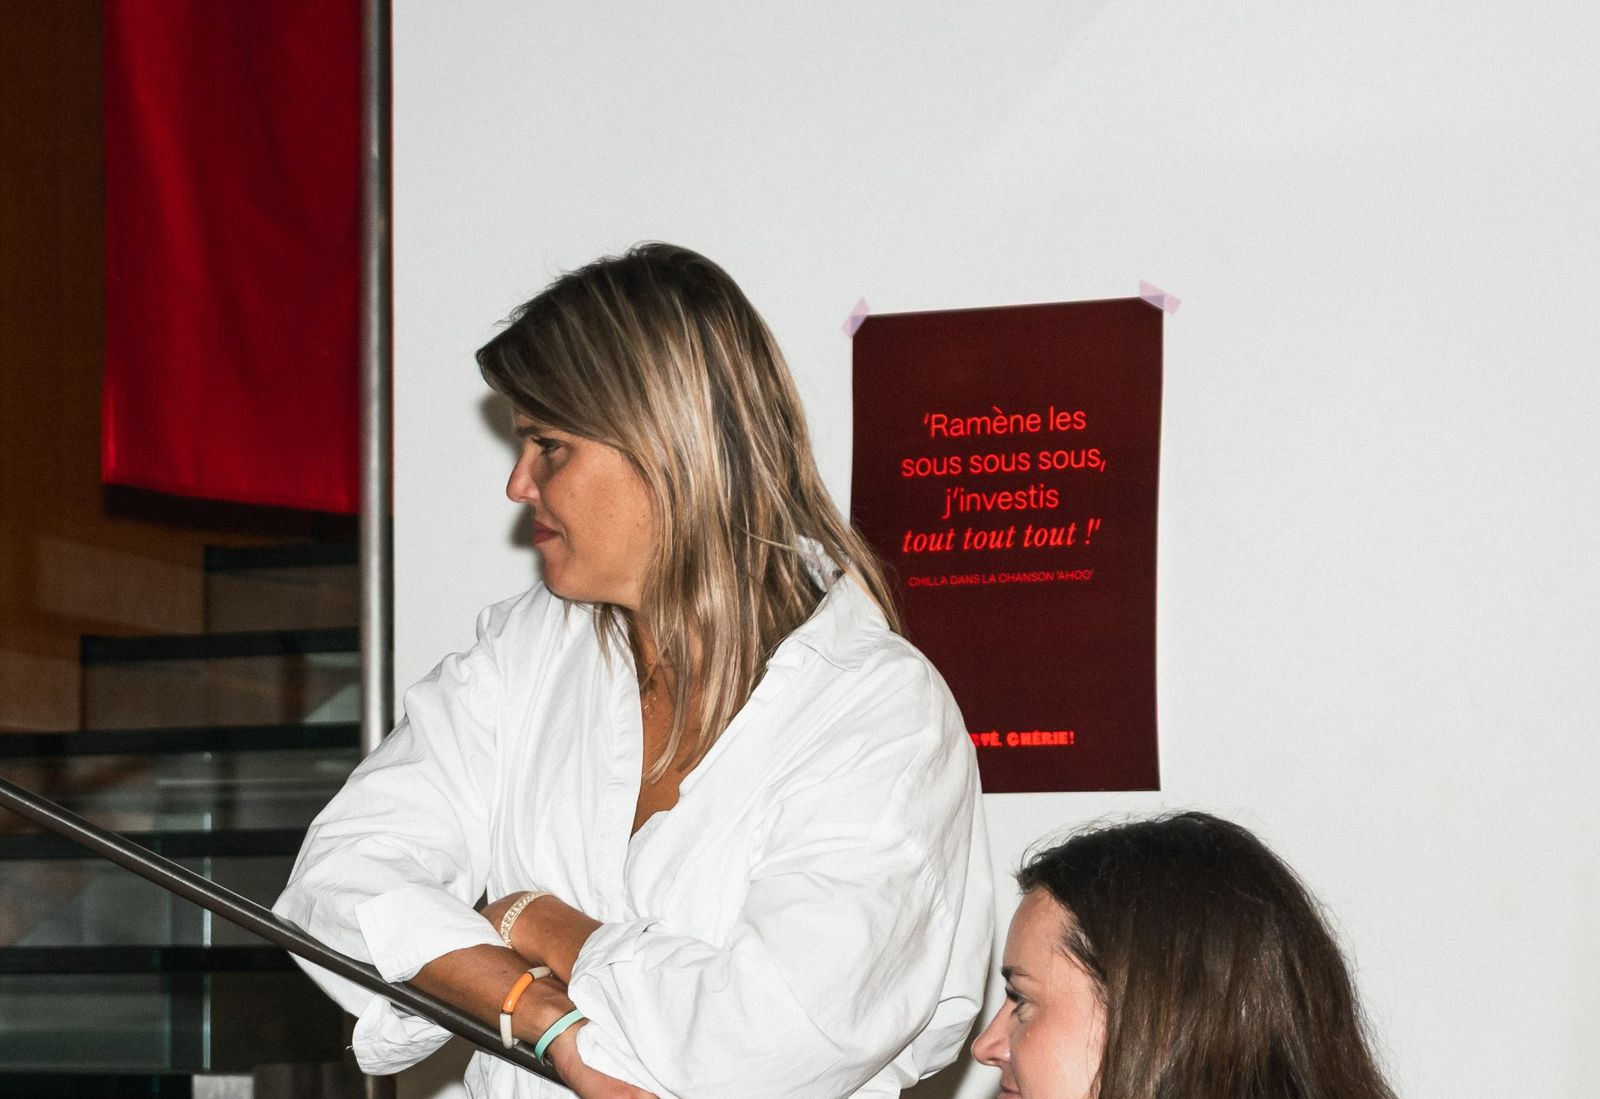
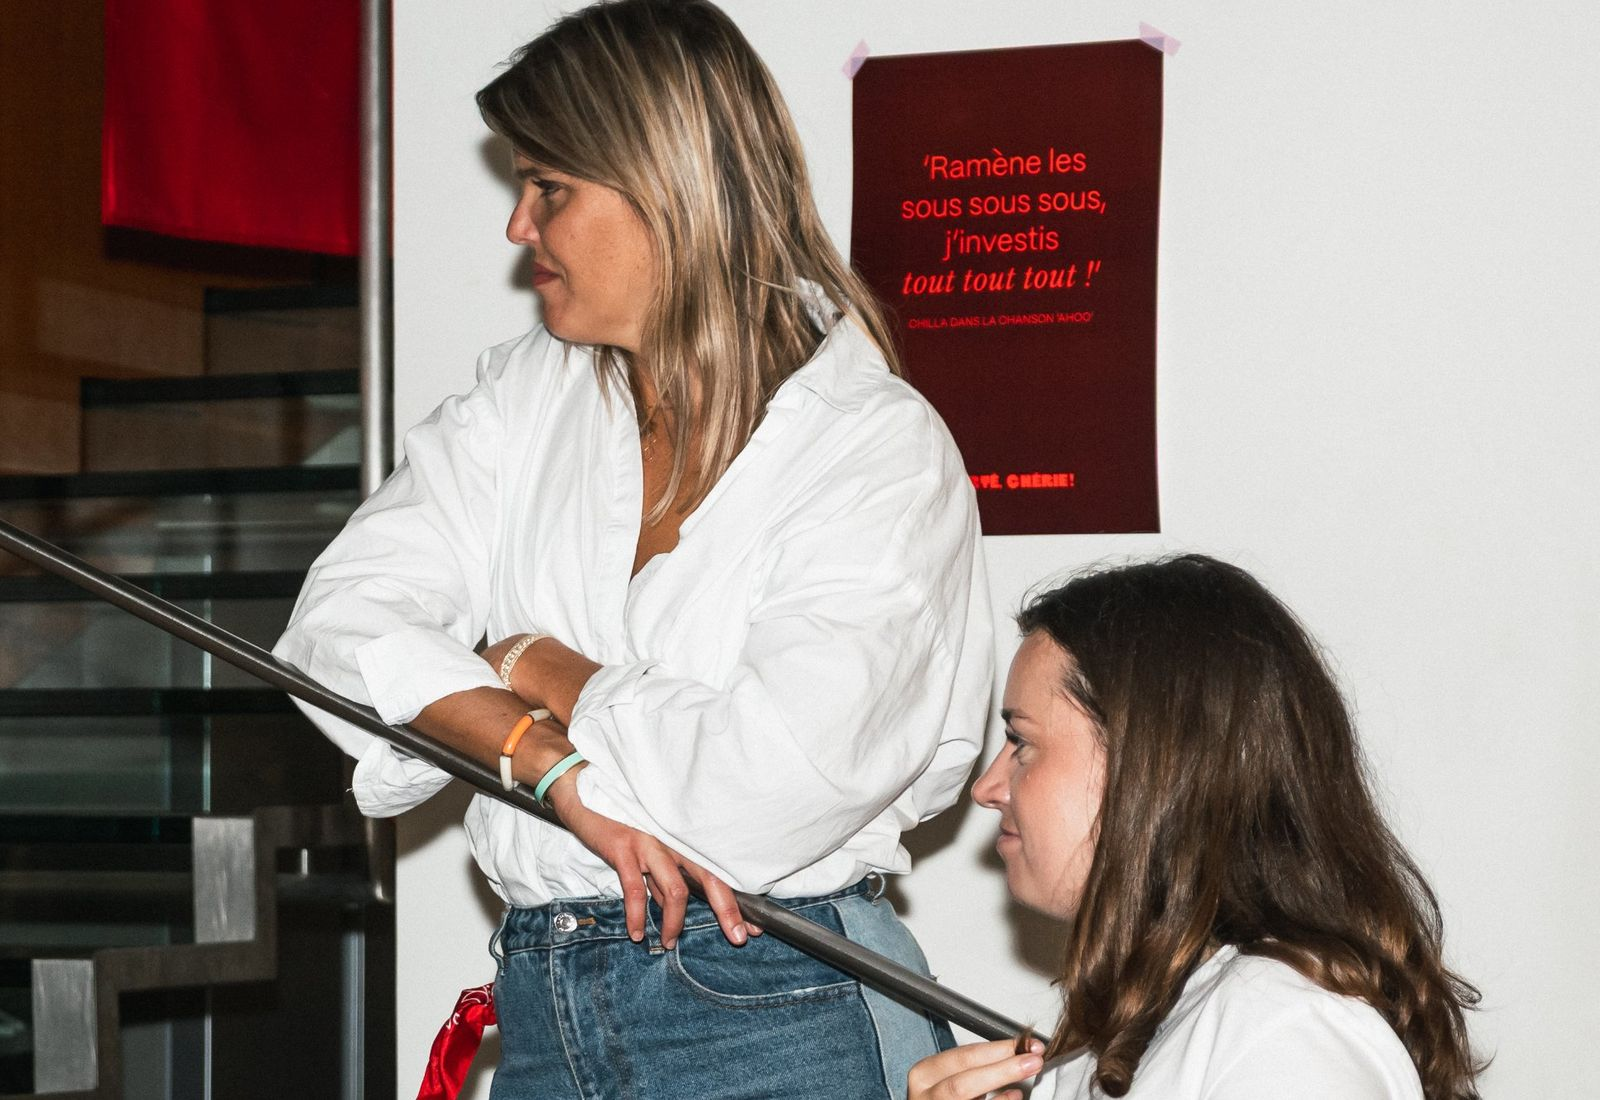
Hero : recadrage Julie et Victoria ; édito : note alignée comme les invitées, photo studio recadrée sur le micro
Claude-Session: https://claude.ai/code/session_015wb2gNqyW3GnPVbTaQgx8v

diff --git a/assets/styles.css b/assets/styles.css
@@ -3261,3 +3261,8 @@ body .ev-section-title .it, body .mt-la, body .ev-h1 .it, body .lt-h1 .it, body 
 /* thématiques : intro alignée sur le style des cases, filet fin */
 .themes-intro { font-family: var(--fs); font-style: italic; font-size: 15px; line-height: 1.55; color: var(--bordeaux); margin: 28px 0 0; padding: 18px 0; border-top: 1px solid rgba(81,0,4,.12); max-width: 640px; }
 .thematiques .themes-grid { margin-top: 0; }
+
+/* édito : note alignée comme la section Invitées (filet rouge à gauche, texte à droite) */
+.edito-hd { grid-template-columns: 1fr 1fr; }
+.edito-note { max-width: 460px; justify-self: end; }
+.edito-hd .edito-note { color: var(--bordeaux) !important; border-left-color: var(--rouge) !important; opacity: .85; }

diff --git a/index.html b/index.html
@@ -518,7 +518,7 @@ height="0" width="0" style="display:none;visibility:hidden"></iframe></noscript>
       <div class="section-eyebrow">Création éditoriale</div>
       <h2 class="title">L'Édito<span class="it">pour continuer à penser.</span></h2>
     </div>
-    <p class="intro">Entre deux événements, il y a des ressources. Pour celles qui nous lisent de près, et de loin.</p>
+    <p class="vivier-note edito-note">Entre deux événements, il y a des ressources. Pour celles qui nous lisent de près, et de loin.</p>
   </div>
 
   <div class="edito-grid">
